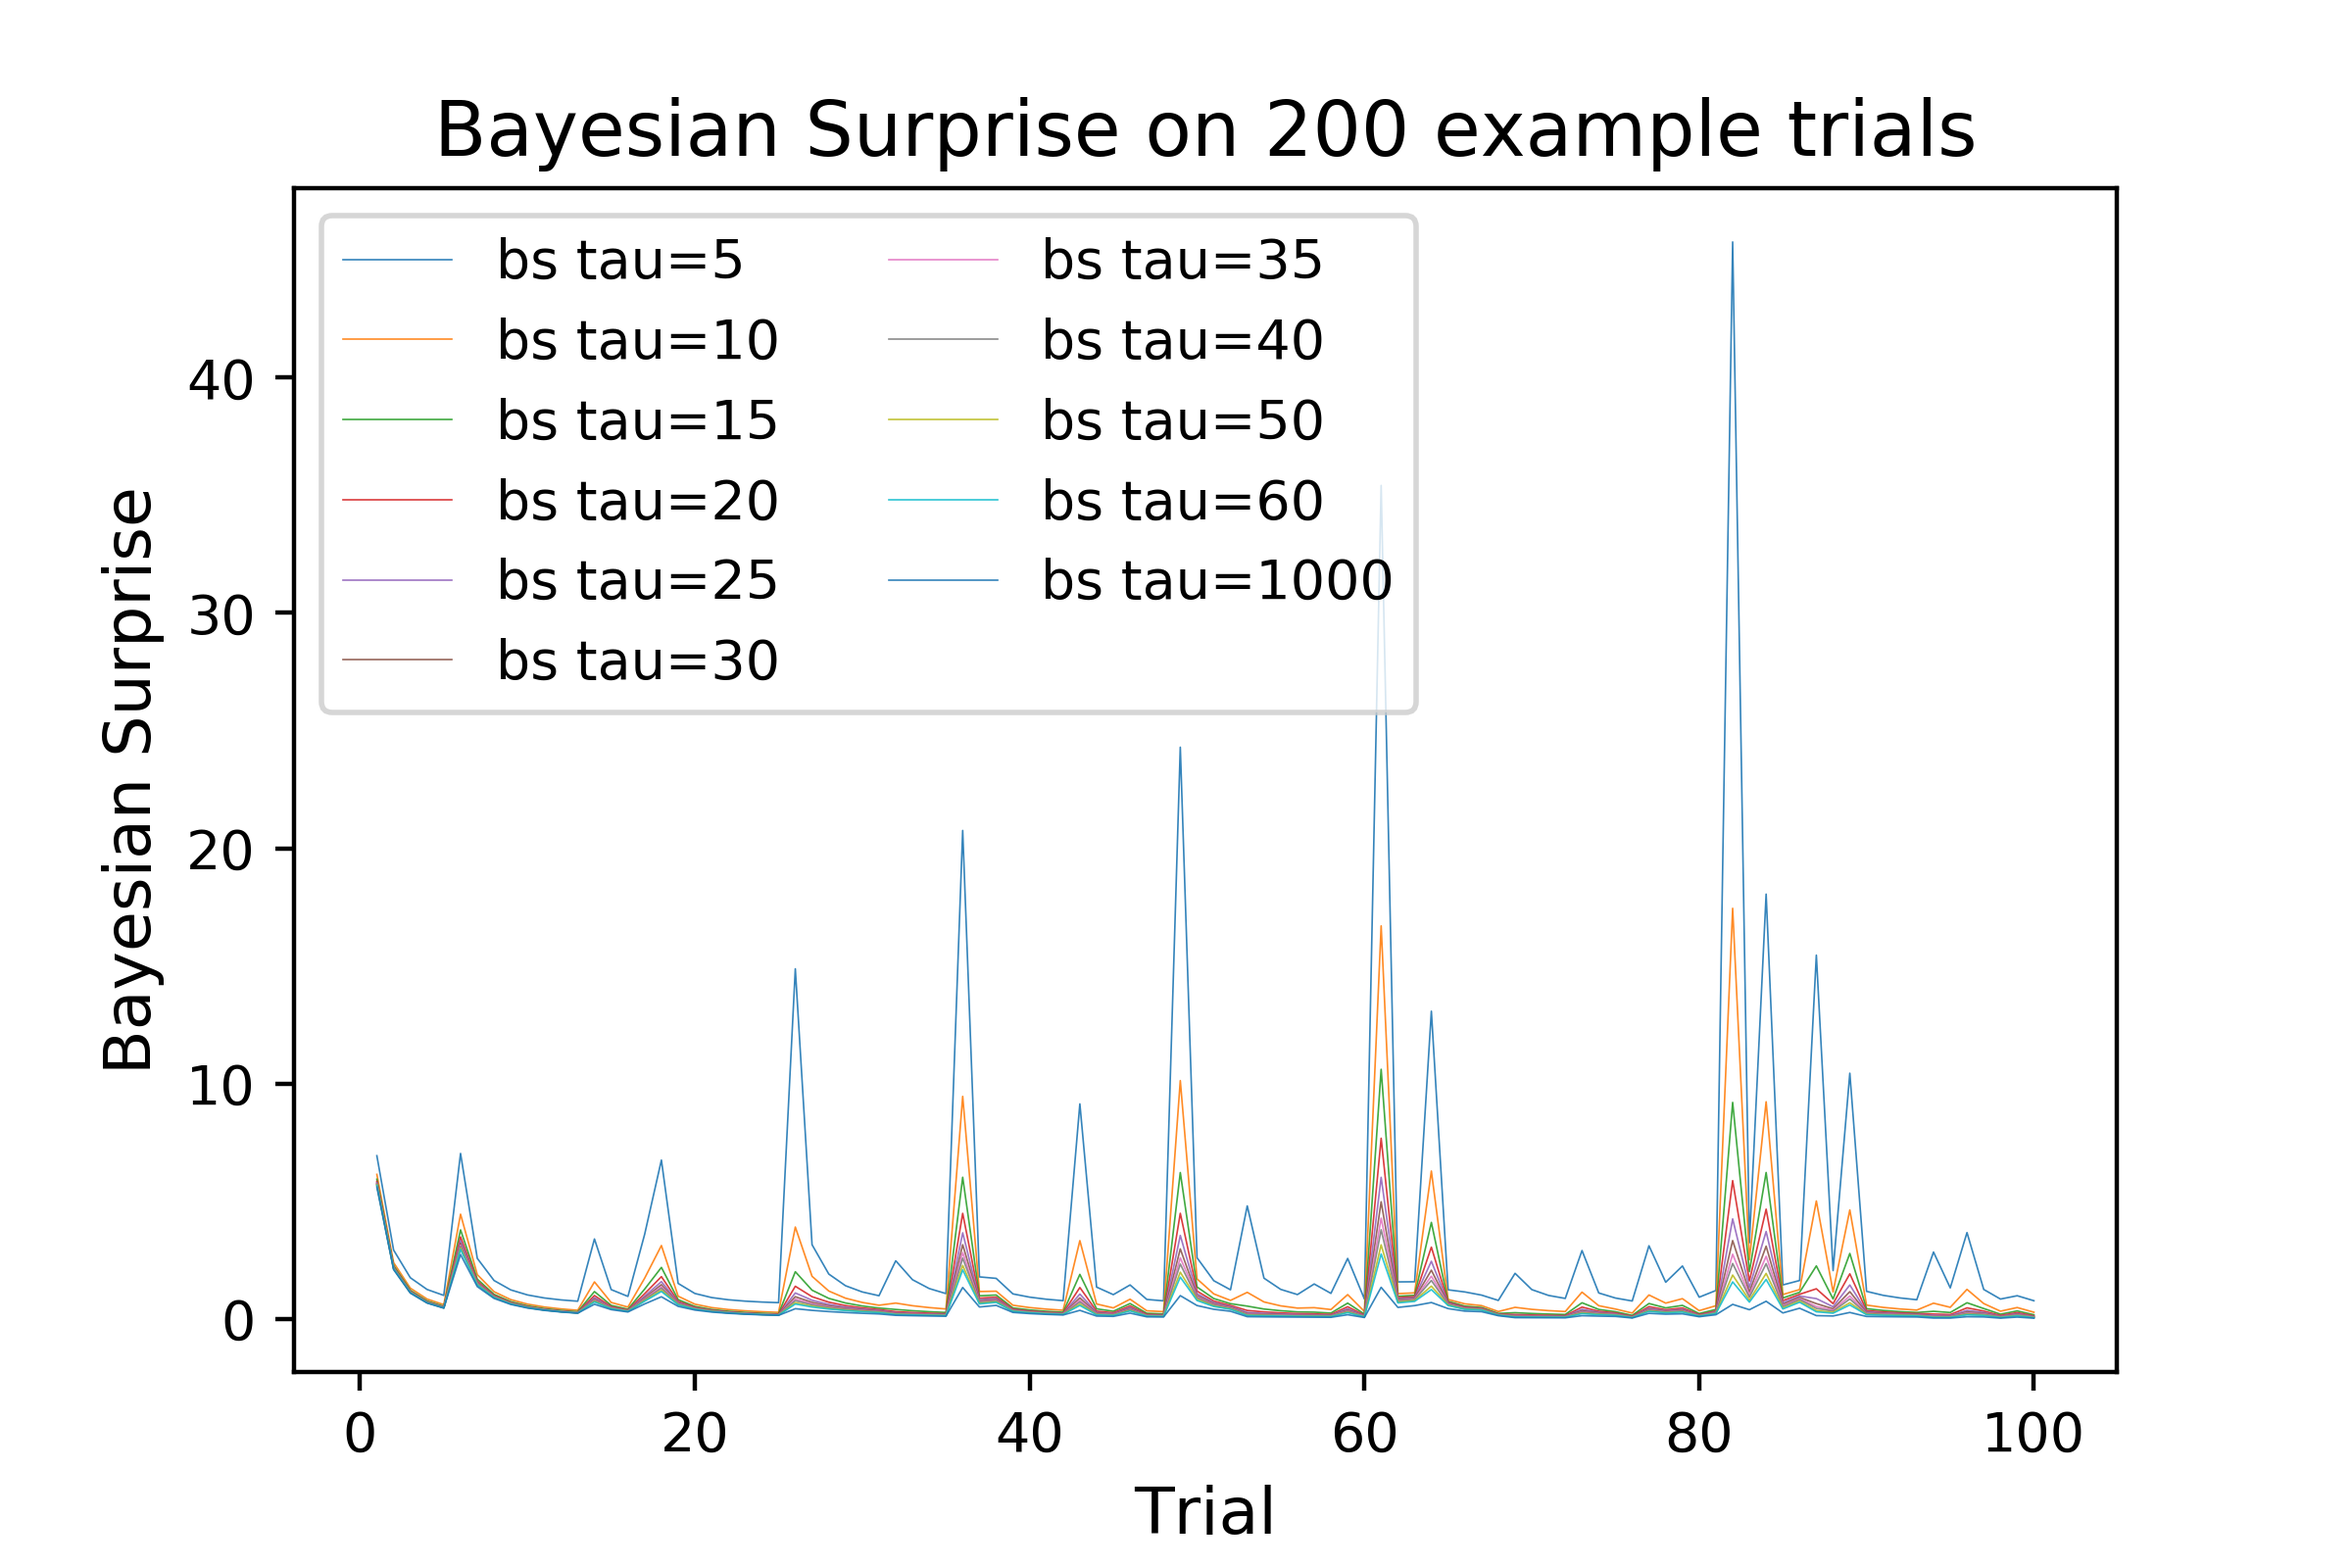
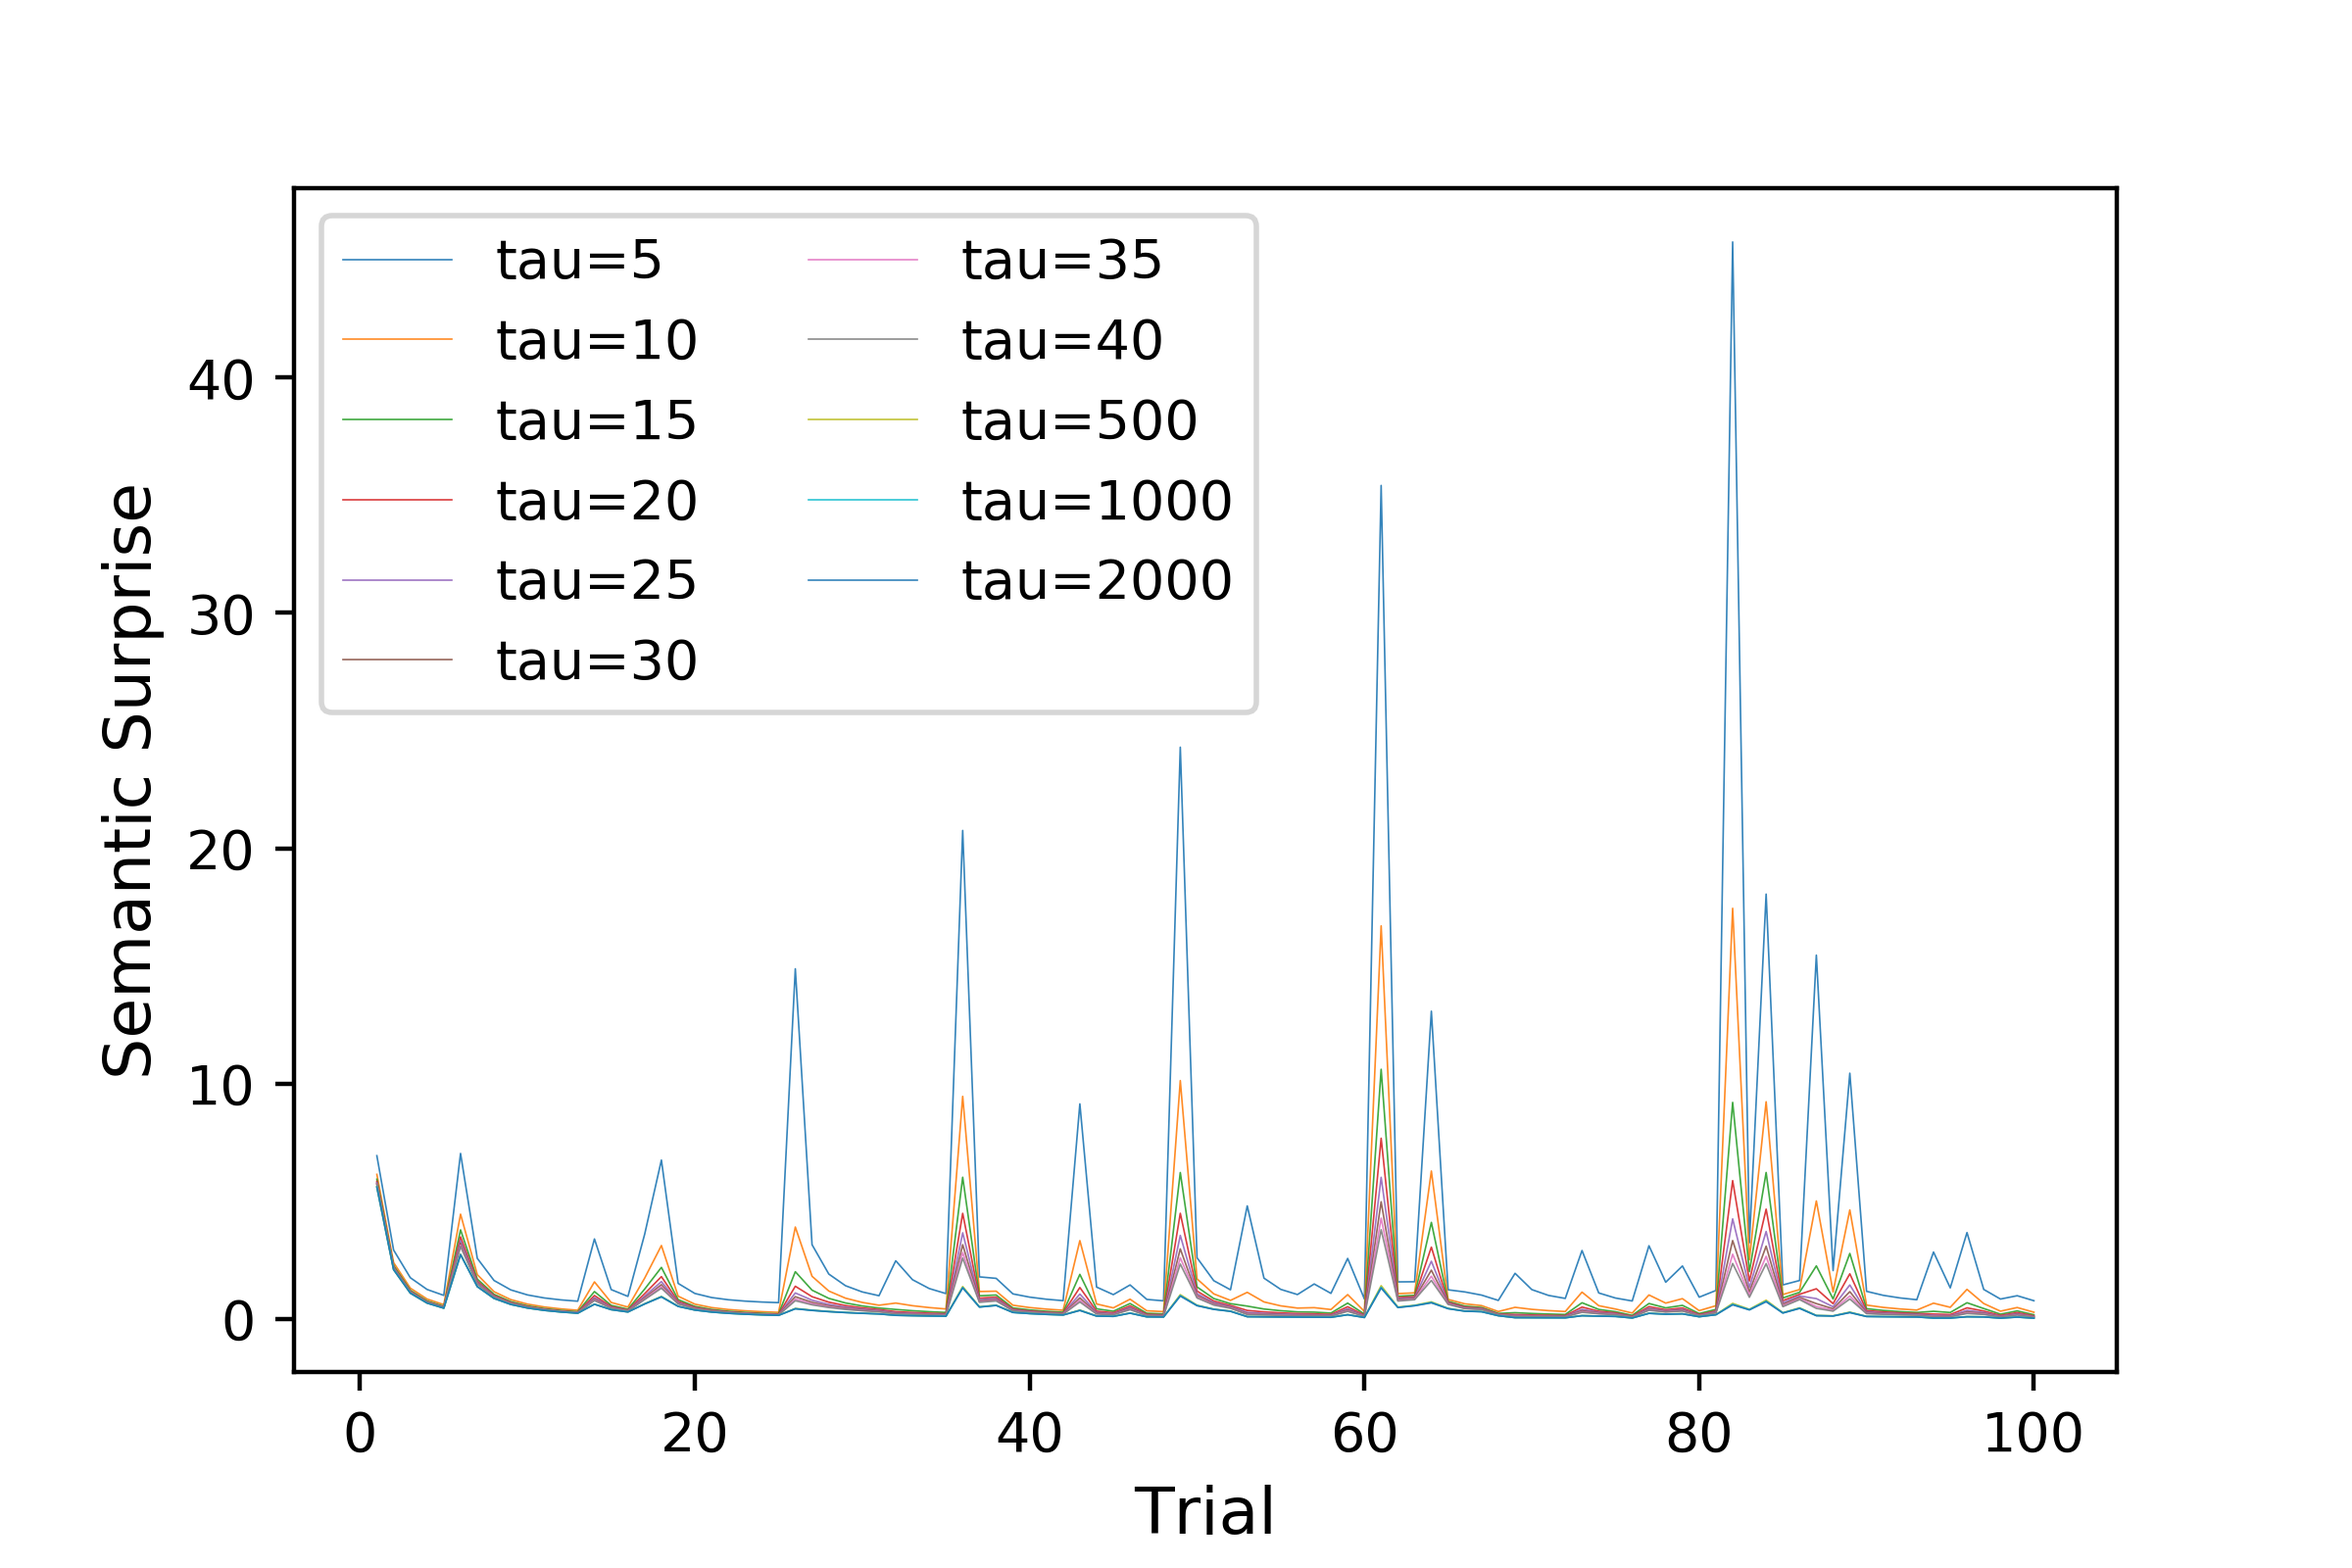
minor

diff --git a/plot_tau.py b/plot_tau.py
@@ -14,7 +14,7 @@ from BayesianUpdating import BayesianUpdating
 
 os.chdir("/Users/ringelblume/Desktop/GitHub/Bayesian_Modeling/")
 
-taurange = np.array([5,10,15,20,25,30,35,40,50,60,1000])
+taurange = np.array([5,10,15,20,25,30,35,40,500,1000,2000])
 subj = 22
 ntrials = 100 # Set number of example trials to be used for plotting
 alpha0 = 1 # Set uniform priors
@@ -40,7 +40,7 @@ for tau in taurange:
     seq_forUpd = seq.drop(['seg', 'badseg', 'meanamp_ROI', 'word.y'], axis=1) # has to be done here, because otherwise next line modifies this object
     BayUpdMeasures = BayesianUpdating(seq_forUpd, tau, alpha0, beta0)
     BayUpdMeasures = BayUpdMeasures[['baysur']]
-    BayUpdMeasures.columns = ['bs tau='+str(tau)]
+    BayUpdMeasures.columns = ['tau='+str(tau)]
     input_output = input_output.merge(BayUpdMeasures, left_index=True, right_index=True, sort=False)
 
 
@@ -56,7 +56,6 @@ for column in forplot.drop(['seg', 'badseg', 'meanamp_ROI', 'word.y'], axis=1):
  
 plt.legend(loc=2, ncol=2) # Add legend
 # Add titles
-plt.title("Bayesian Surprise on 200 example trials", loc='center', fontsize=14, fontweight=0, color='black')
 plt.xlabel("Trial", fontsize=12)
-plt.ylabel("Bayesian Surprise", fontsize=12)
+plt.ylabel("Semantic Surprise", fontsize=12)
 plt.savefig('regressorplot.png', dpi=400)

diff --git a/Modeling.py b/Modeling.py
@@ -20,10 +20,10 @@ for sub in range(1,41):
     
     starttime = time.time() # Check time
     
-    (opttau, costfun, ml_lm) = FirstLevelFit(subj=sub, iters=15, bounds=[5, 1000])
+    (opttau, costfun, ml_lm) = FirstLevelFit(subj=sub, iters=20, bounds=[5, 2000])
     
     elapsed = time.time() - starttime # Compute time needed for optimization
     
     firstlevel.loc[sub-1,:] = [str(sub), round(elapsed)/60, costfun, opttau, ml_lm.coef_[0], ml_lm.intercept_]
     
-    firstlevel.to_csv("firstlevel_parameters_bounds5_1000_.csv", sep=";")
+    firstlevel.to_csv("firstlevel_parameters_bounds5_2000.csv", sep=";")
